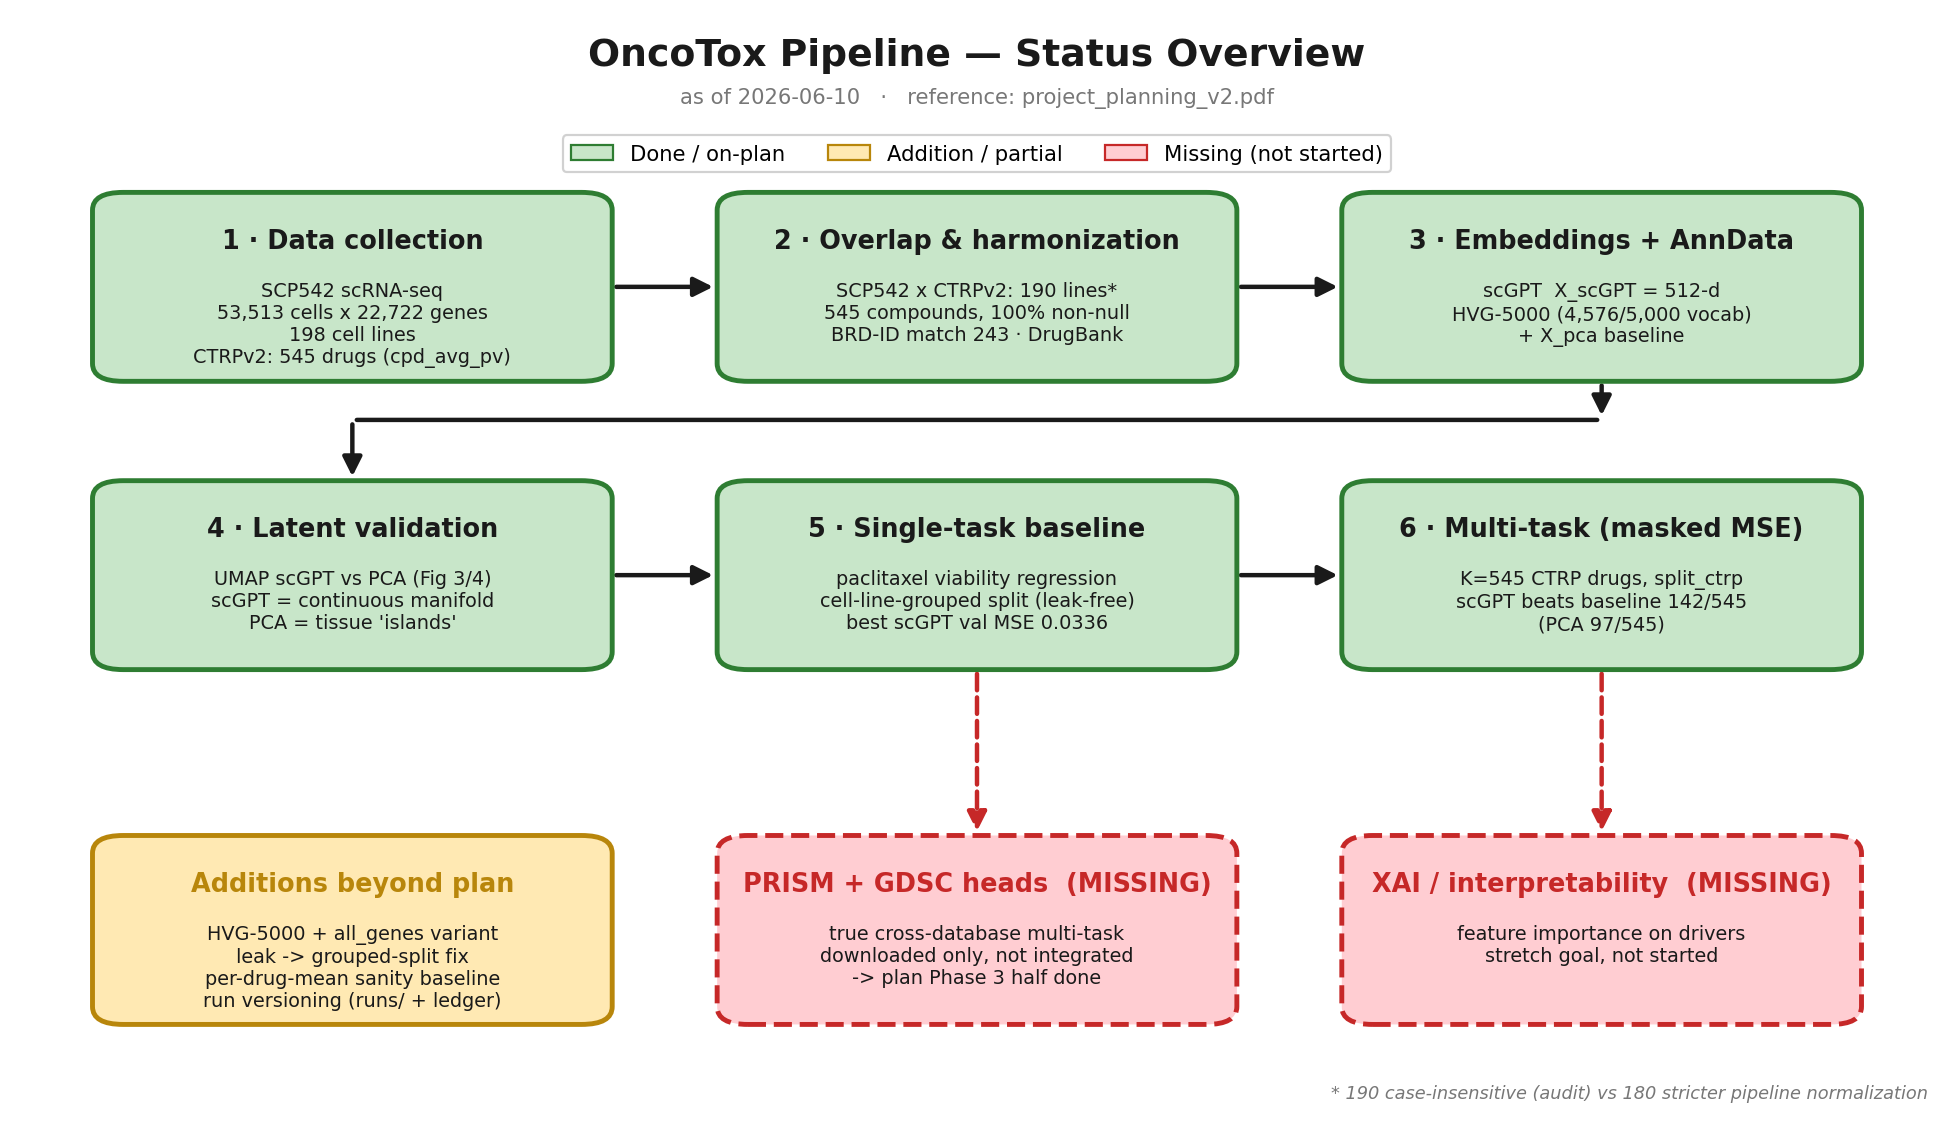
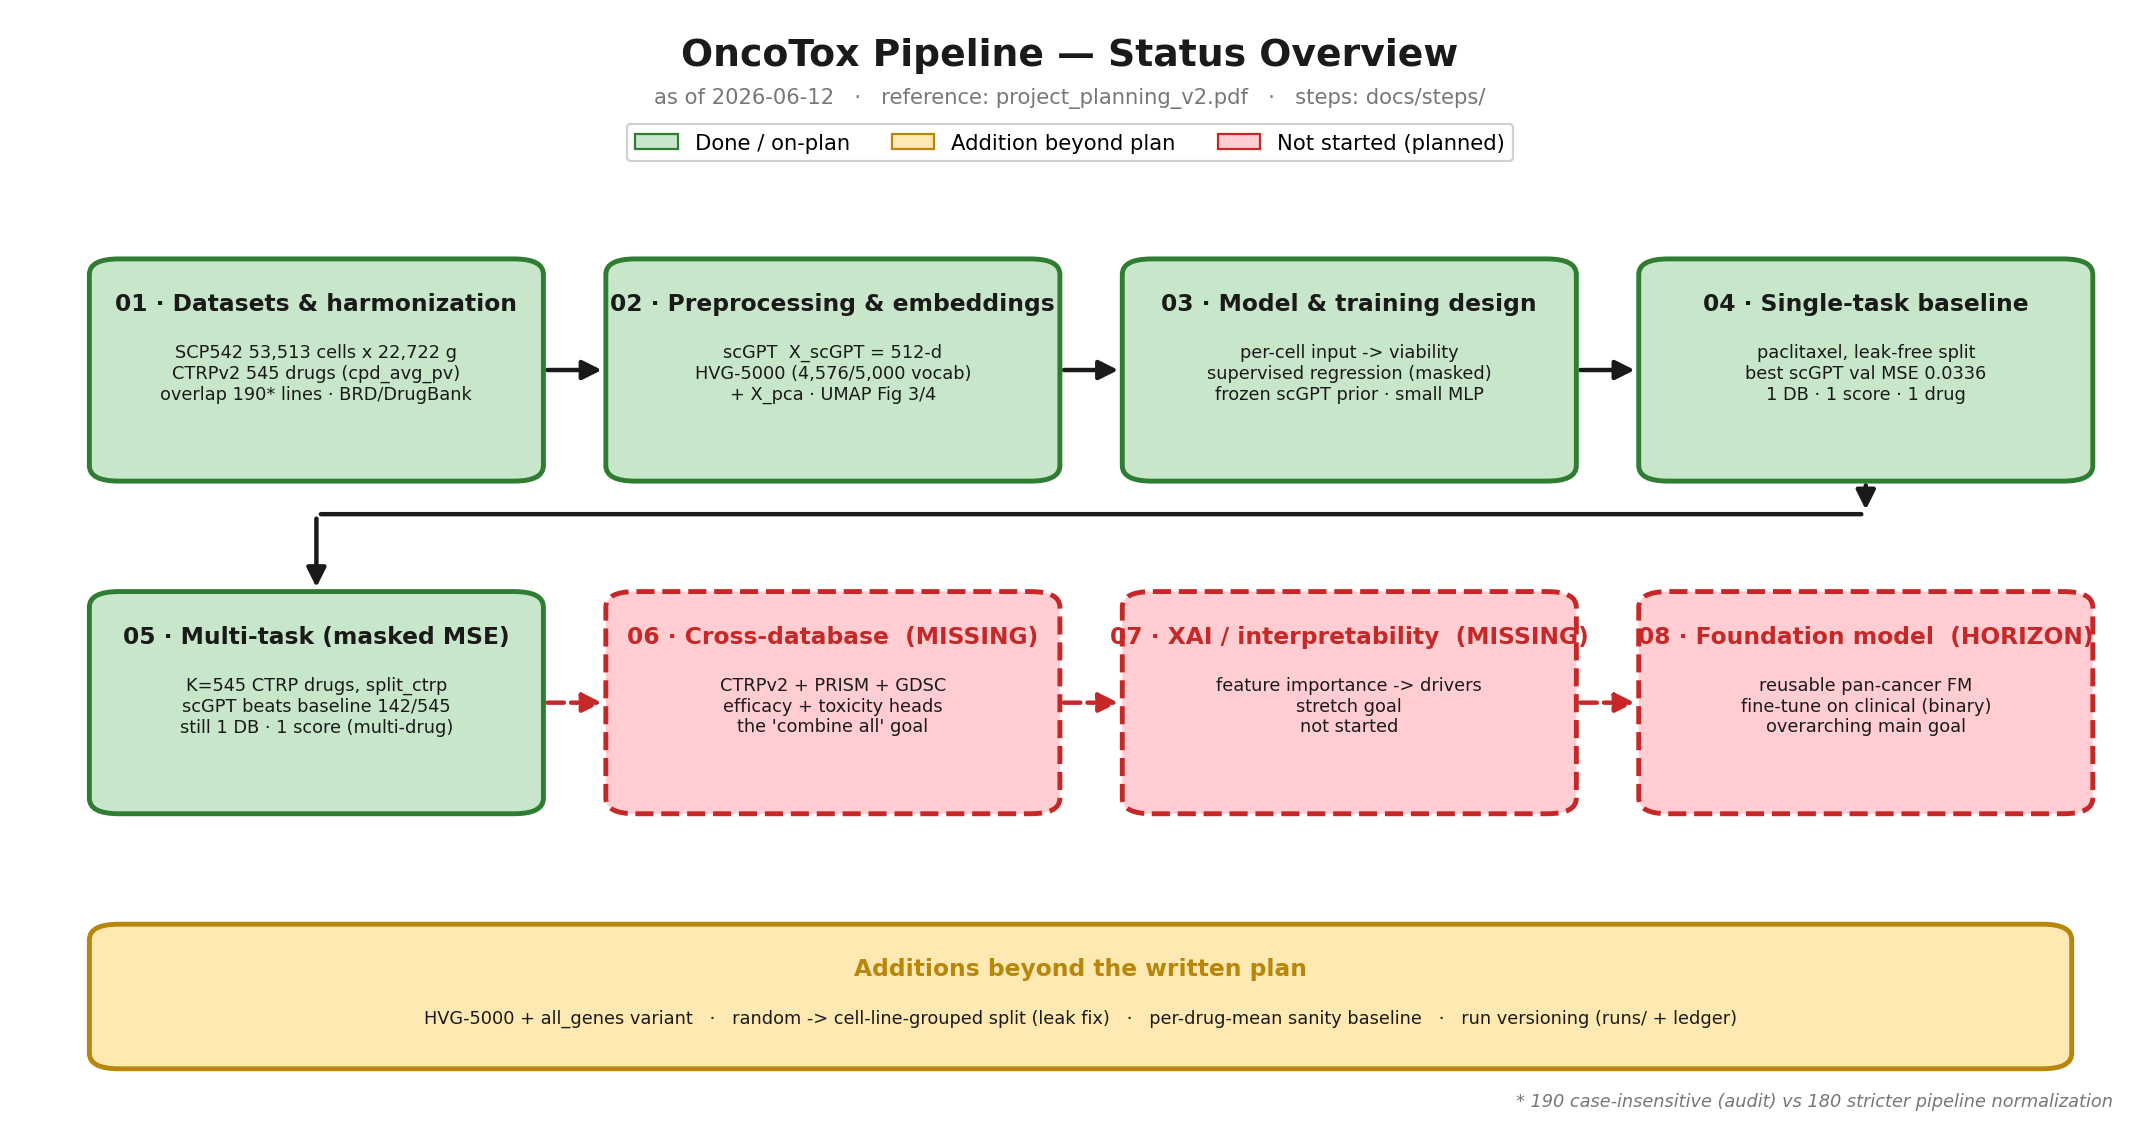
docs: regenerate pipeline_overview.png to reflect the 8-step structure
Rework the figure to mirror docs/steps/: steps 01-05 done (green), 06-08
planned placeholders (red, dashed) — cross-database integration, XAI,
foundation model. Show the "1 DB / 1 score -> combine all" widening and keep
an amber band for additions beyond the plan.

diff --git a/docs/make_pipeline_overview.py b/docs/make_pipeline_overview.py
@@ -1,8 +1,11 @@
 """Generate docs/pipeline_overview.png — a status overview of the OncoTox pipeline.
 
+Layout mirrors the eight thematic step files in docs/steps/:
+  01-05 = done (green)   ·   06-08 = planned placeholders (red, dashed)
+
 Green  = done / on-plan
-Amber  = done but an addition or only partially covering the plan
-Red    = not started (still missing)
+Amber  = done but an addition beyond the plan
+Red    = not started (still missing / horizon)
 
 Run:  uv run docs/make_pipeline_overview.py
 """
@@ -28,28 +31,28 @@ RED_FILL = "#ffcdd2"
 GREY = "#777777"
 INK = "#1a1a1a"
 
-fig, ax = plt.subplots(figsize=(15.5, 9.0))
+fig, ax = plt.subplots(figsize=(17.0, 9.0))
 ax.set_xlim(0, 100)
 ax.set_ylim(0, 100)
 ax.axis("off")
 
-# Grid
-W, H = 27, 17
-XS = [4, 36.5, 69]
-ROW_A, ROW_B, ROW_C = 67, 41, 9
+# Grid — 4 columns x 2 rows of step boxes, plus a full-width amber band at the bottom.
+W, H = 21.5, 20
+XS = [3.5, 28.0, 52.5, 77.0]
+ROW_A, ROW_B = 58, 28
 
 
 def box(x, y, w, h, title, lines, edge, fill, title_color=None, dashed=False):
     ax.add_patch(FancyBboxPatch(
         (x, y), w, h,
-        boxstyle="round,pad=0.02,rounding_size=1.6",
+        boxstyle="round,pad=0.02,rounding_size=1.4",
         linewidth=2.2, edgecolor=edge, facecolor=fill,
         linestyle="--" if dashed else "-", mutation_aspect=1.0, zorder=2,
     ))
-    ax.text(x + w / 2, y + h - 3.2, title, ha="center", va="top",
-            fontsize=11.5, fontweight="bold", color=title_color or INK, zorder=3)
-    ax.text(x + w / 2, y + h - 8.0, "\n".join(lines), ha="center", va="top",
-            fontsize=8.7, color=INK, zorder=3)
+    ax.text(x + w / 2, y + h - 3.0, title, ha="center", va="top",
+            fontsize=10.5, fontweight="bold", color=title_color or INK, zorder=3)
+    ax.text(x + w / 2, y + h - 7.6, "\n".join(lines), ha="center", va="top",
+            fontsize=8.0, color=INK, zorder=3)
 
 
 def arrow(x1, y1, x2, y2, color=INK, dashed=False):
@@ -62,67 +65,65 @@ def arrow(x1, y1, x2, y2, color=INK, dashed=False):
 # Title + legend
 ax.text(50, 98, "OncoTox Pipeline — Status Overview", ha="center", va="top",
         fontsize=17, fontweight="bold", color=INK)
-ax.text(50, 93.5, "as of 2026-06-10   ·   reference: project_planning_v2.pdf",
+ax.text(50, 93.5, "as of 2026-06-12   ·   reference: project_planning_v2.pdf   ·   steps: docs/steps/",
         ha="center", va="top", fontsize=9.5, color=GREY)
 handles = [
     mpatches.Patch(facecolor=GREEN_FILL, edgecolor=GREEN, label="Done / on-plan"),
-    mpatches.Patch(facecolor=AMBER_FILL, edgecolor=AMBER, label="Addition / partial"),
-    mpatches.Patch(facecolor=RED_FILL, edgecolor=RED, label="Missing (not started)"),
+    mpatches.Patch(facecolor=AMBER_FILL, edgecolor=AMBER, label="Addition beyond plan"),
+    mpatches.Patch(facecolor=RED_FILL, edgecolor=RED, label="Not started (planned)"),
 ]
-ax.legend(handles=handles, loc="center", bbox_to_anchor=(0.5, 0.875),
+ax.legend(handles=handles, loc="center", bbox_to_anchor=(0.5, 0.885),
           ncol=3, fontsize=9.5, frameon=True, framealpha=0.9)
 
-# Row A — done
-box(XS[0], ROW_A, W, H, "1 · Data collection",
-    ["SCP542 scRNA-seq", "53,513 cells x 22,722 genes", "198 cell lines",
-     "CTRPv2: 545 drugs (cpd_avg_pv)"], GREEN, GREEN_FILL)
-box(XS[1], ROW_A, W, H, "2 · Overlap & harmonization",
-    ["SCP542 x CTRPv2: 190 lines*", "545 compounds, 100% non-null",
-     "BRD-ID match 243 · DrugBank"], GREEN, GREEN_FILL)
-box(XS[2], ROW_A, W, H, "3 · Embeddings + AnnData",
+# Row A — steps 01-04 (done)
+box(XS[0], ROW_A, W, H, "01 · Datasets & harmonization",
+    ["SCP542 53,513 cells x 22,722 g", "CTRPv2 545 drugs (cpd_avg_pv)",
+     "overlap 190* lines · BRD/DrugBank"], GREEN, GREEN_FILL)
+box(XS[1], ROW_A, W, H, "02 · Preprocessing & embeddings",
     ["scGPT  X_scGPT = 512-d", "HVG-5000 (4,576/5,000 vocab)",
-     "+ X_pca baseline"], GREEN, GREEN_FILL)
+     "+ X_pca · UMAP Fig 3/4"], GREEN, GREEN_FILL)
+box(XS[2], ROW_A, W, H, "03 · Model & training design",
+    ["per-cell input -> viability", "supervised regression (masked)",
+     "frozen scGPT prior · small MLP"], GREEN, GREEN_FILL)
+box(XS[3], ROW_A, W, H, "04 · Single-task baseline",
+    ["paclitaxel, leak-free split", "best scGPT val MSE 0.0336",
+     "1 DB · 1 score · 1 drug"], GREEN, GREEN_FILL)
 
-# Row B — done
-box(XS[0], ROW_B, W, H, "4 · Latent validation",
-    ["UMAP scGPT vs PCA (Fig 3/4)", "scGPT = continuous manifold",
-     "PCA = tissue 'islands'"], GREEN, GREEN_FILL)
-box(XS[1], ROW_B, W, H, "5 · Single-task baseline",
-    ["paclitaxel viability regression", "cell-line-grouped split (leak-free)",
-     "best scGPT val MSE 0.0336"], GREEN, GREEN_FILL)
-box(XS[2], ROW_B, W, H, "6 · Multi-task (masked MSE)",
+# Row B — step 05 (done) + steps 06-08 (missing)
+box(XS[0], ROW_B, W, H, "05 · Multi-task (masked MSE)",
     ["K=545 CTRP drugs, split_ctrp", "scGPT beats baseline 142/545",
-     "(PCA 97/545)"], GREEN, GREEN_FILL)
-
-# Row C — additions (amber) + missing (red)
-box(XS[0], ROW_C, W, H, "Additions beyond plan",
-    ["HVG-5000 + all_genes variant", "leak -> grouped-split fix",
-     "per-drug-mean sanity baseline", "run versioning (runs/ + ledger)"],
-    AMBER, AMBER_FILL, title_color=AMBER)
-box(XS[1], ROW_C, W, H, "PRISM + GDSC heads  (MISSING)",
-    ["true cross-database multi-task", "downloaded only, not integrated",
-     "-> plan Phase 3 half done"], RED, RED_FILL, title_color=RED, dashed=True)
-box(XS[2], ROW_C, W, H, "XAI / interpretability  (MISSING)",
-    ["feature importance on drivers", "stretch goal, not started"],
+     "still 1 DB · 1 score (multi-drug)"], GREEN, GREEN_FILL)
+box(XS[1], ROW_B, W, H, "06 · Cross-database  (MISSING)",
+    ["CTRPv2 + PRISM + GDSC", "efficacy + toxicity heads",
+     "the 'combine all' goal"], RED, RED_FILL, title_color=RED, dashed=True)
+box(XS[2], ROW_B, W, H, "07 · XAI / interpretability  (MISSING)",
+    ["feature importance -> drivers", "stretch goal", "not started"],
     RED, RED_FILL, title_color=RED, dashed=True)
+box(XS[3], ROW_B, W, H, "08 · Foundation model  (HORIZON)",
+    ["reusable pan-cancer FM", "fine-tune on clinical (binary)",
+     "overarching main goal"], RED, RED_FILL, title_color=RED, dashed=True)
 
-# Arrows — Row A
-arrow(XS[0] + W, ROW_A + H / 2, XS[1], ROW_A + H / 2)
-arrow(XS[1] + W, ROW_A + H / 2, XS[2], ROW_A + H / 2)
-# wrap A -> B (down from box3, across, down into box4)
-yb = ROW_A - 3.5
-arrow(XS[2] + W / 2, ROW_A, XS[2] + W / 2, yb)
-ax.add_patch(FancyArrowPatch((XS[2] + W / 2, yb), (XS[0] + W / 2, yb),
+# Bottom amber band — additions beyond the written plan
+BAND_Y, BAND_H = 5, 13
+box(XS[0], BAND_Y, 94, BAND_H, "Additions beyond the written plan",
+    ["HVG-5000 + all_genes variant   ·   random -> cell-line-grouped split (leak fix)   ·   "
+     "per-drug-mean sanity baseline   ·   run versioning (runs/ + ledger)"],
+    AMBER, AMBER_FILL, title_color=AMBER)
+
+# Arrows — Row A (01 -> 02 -> 03 -> 04)
+for i in range(3):
+    arrow(XS[i] + W, ROW_A + H / 2, XS[i + 1], ROW_A + H / 2)
+# wrap 04 -> 05 (down from box04, across, down into box05)
+yb = ROW_A - 3.0
+arrow(XS[3] + W / 2, ROW_A, XS[3] + W / 2, yb)
+ax.add_patch(FancyArrowPatch((XS[3] + W / 2, yb), (XS[0] + W / 2, yb),
              arrowstyle="-", linewidth=2.0, color=INK, zorder=1))
 arrow(XS[0] + W / 2, yb, XS[0] + W / 2, ROW_B + H)
-# Arrows — Row B
-arrow(XS[0] + W, ROW_B + H / 2, XS[1], ROW_B + H / 2)
-arrow(XS[1] + W, ROW_B + H / 2, XS[2], ROW_B + H / 2)
-# Missing: box6 -> PRISM/GDSC (dashed red)
-arrow(XS[1] + W / 2, ROW_B, XS[1] + W / 2, ROW_C + H, color=RED, dashed=True)
-arrow(XS[2] + W / 2, ROW_B, XS[2] + W / 2, ROW_C + H, color=RED, dashed=True)
+# Arrows — Row B (05 -> 06 -> 07 -> 08), dashed red into the not-yet-built chain
+for i in range(3):
+    arrow(XS[i] + W, ROW_B + H / 2, XS[i + 1], ROW_B + H / 2, color=RED, dashed=True)
 
-ax.text(99.5, 2.0, "* 190 case-insensitive (audit) vs 180 stricter pipeline normalization",
+ax.text(99.5, 1.2, "* 190 case-insensitive (audit) vs 180 stricter pipeline normalization",
         ha="right", va="bottom", fontsize=8, color=GREY, style="italic")
 
 fig.savefig(OUT, dpi=160, bbox_inches="tight", facecolor="white")